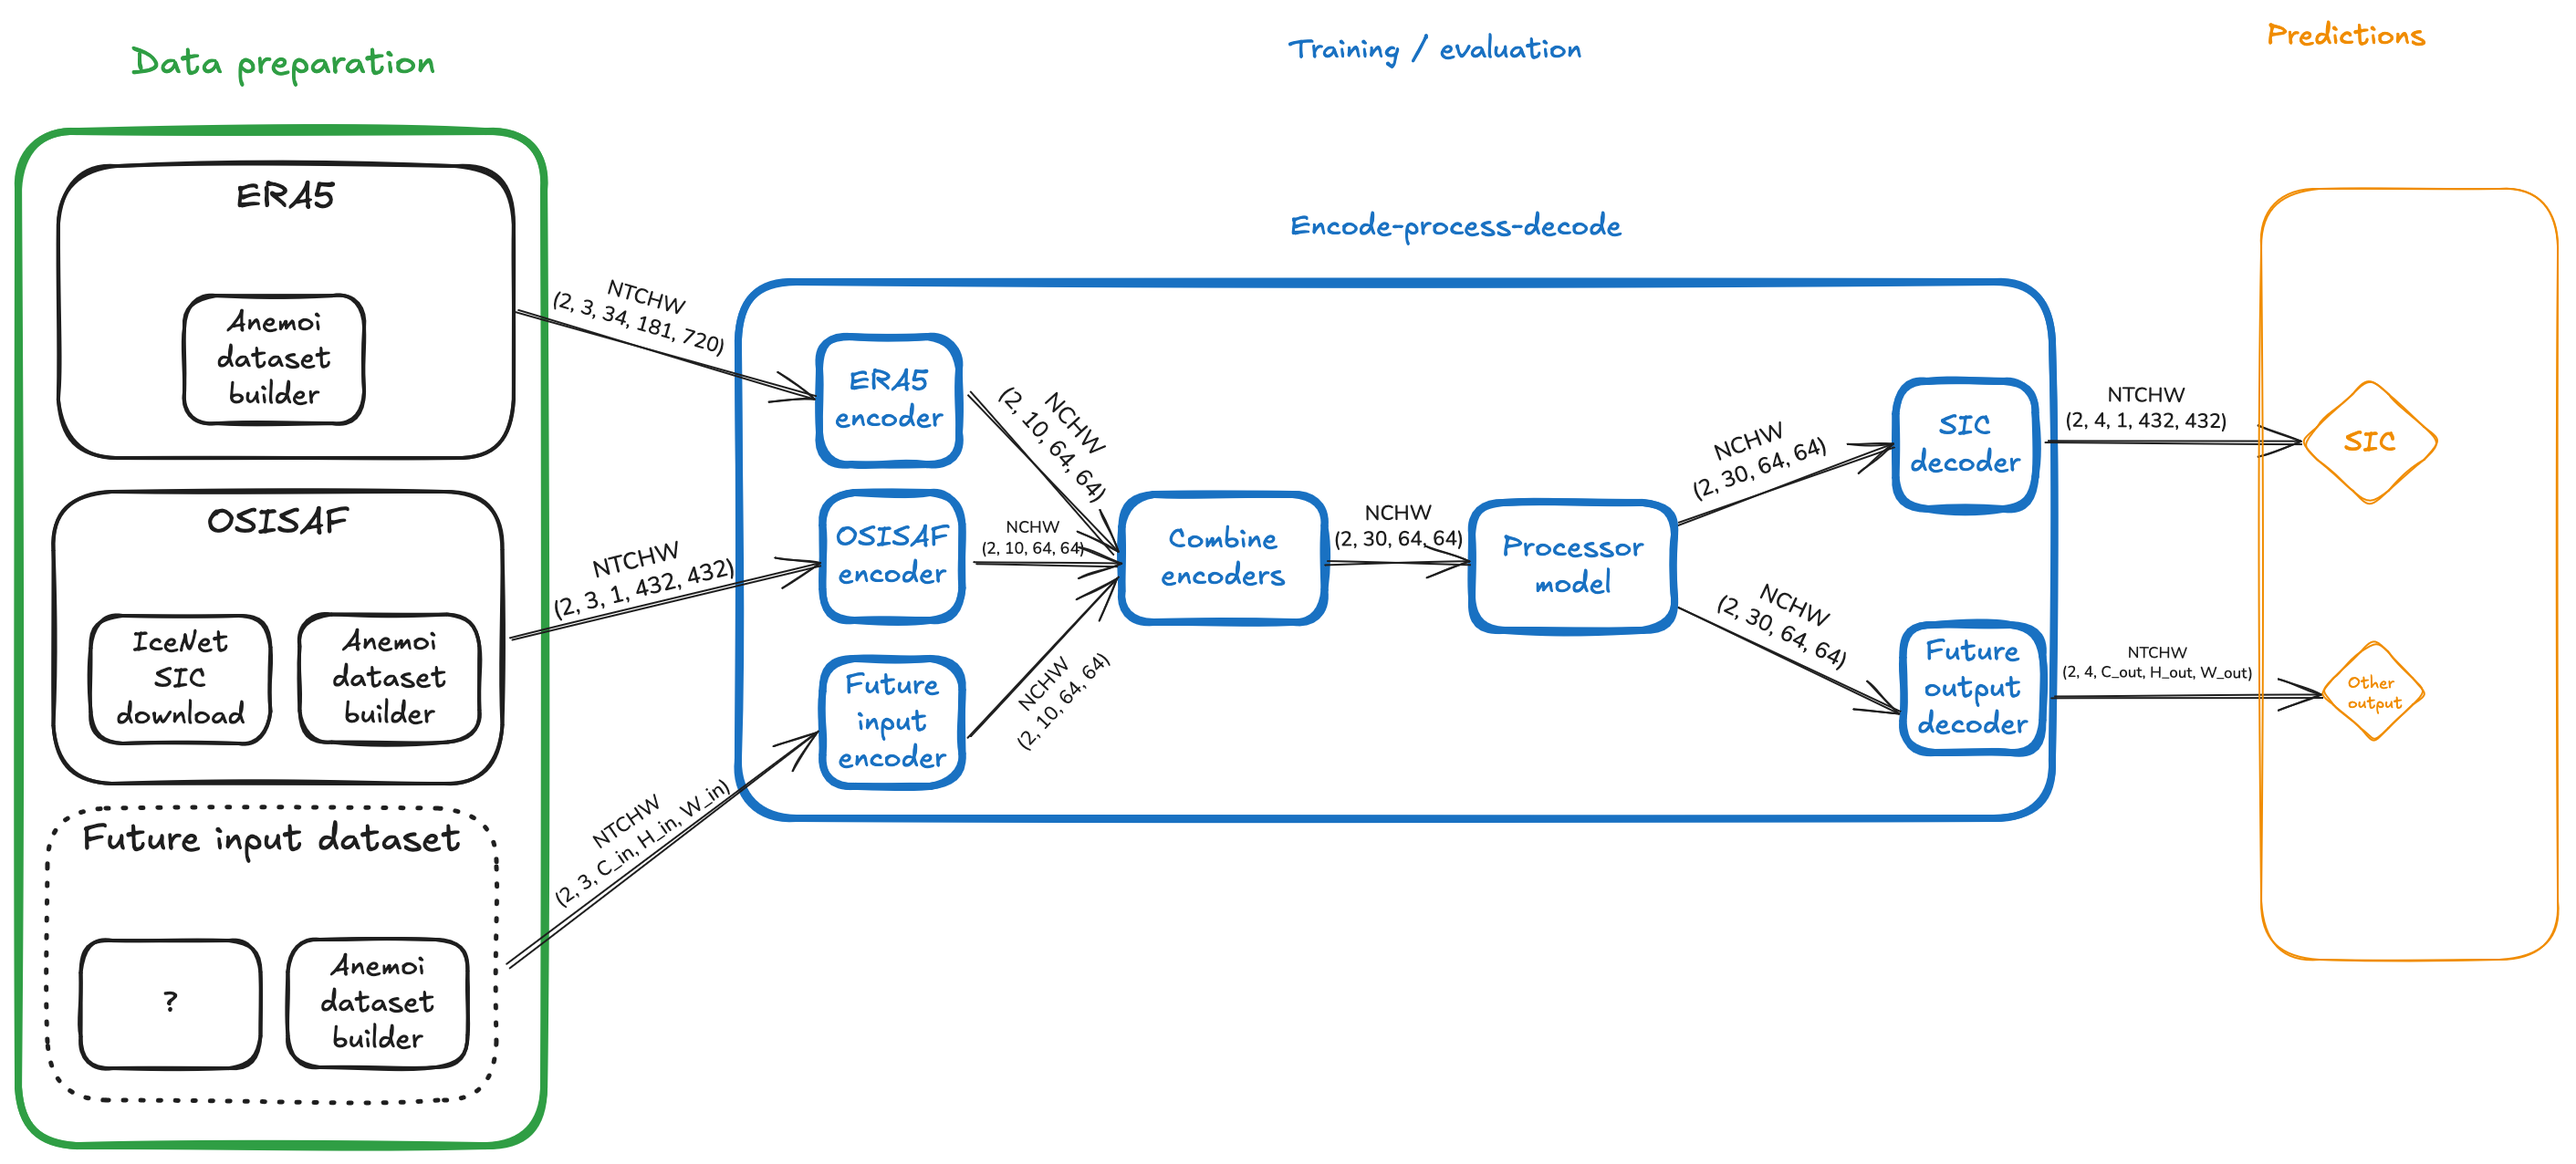
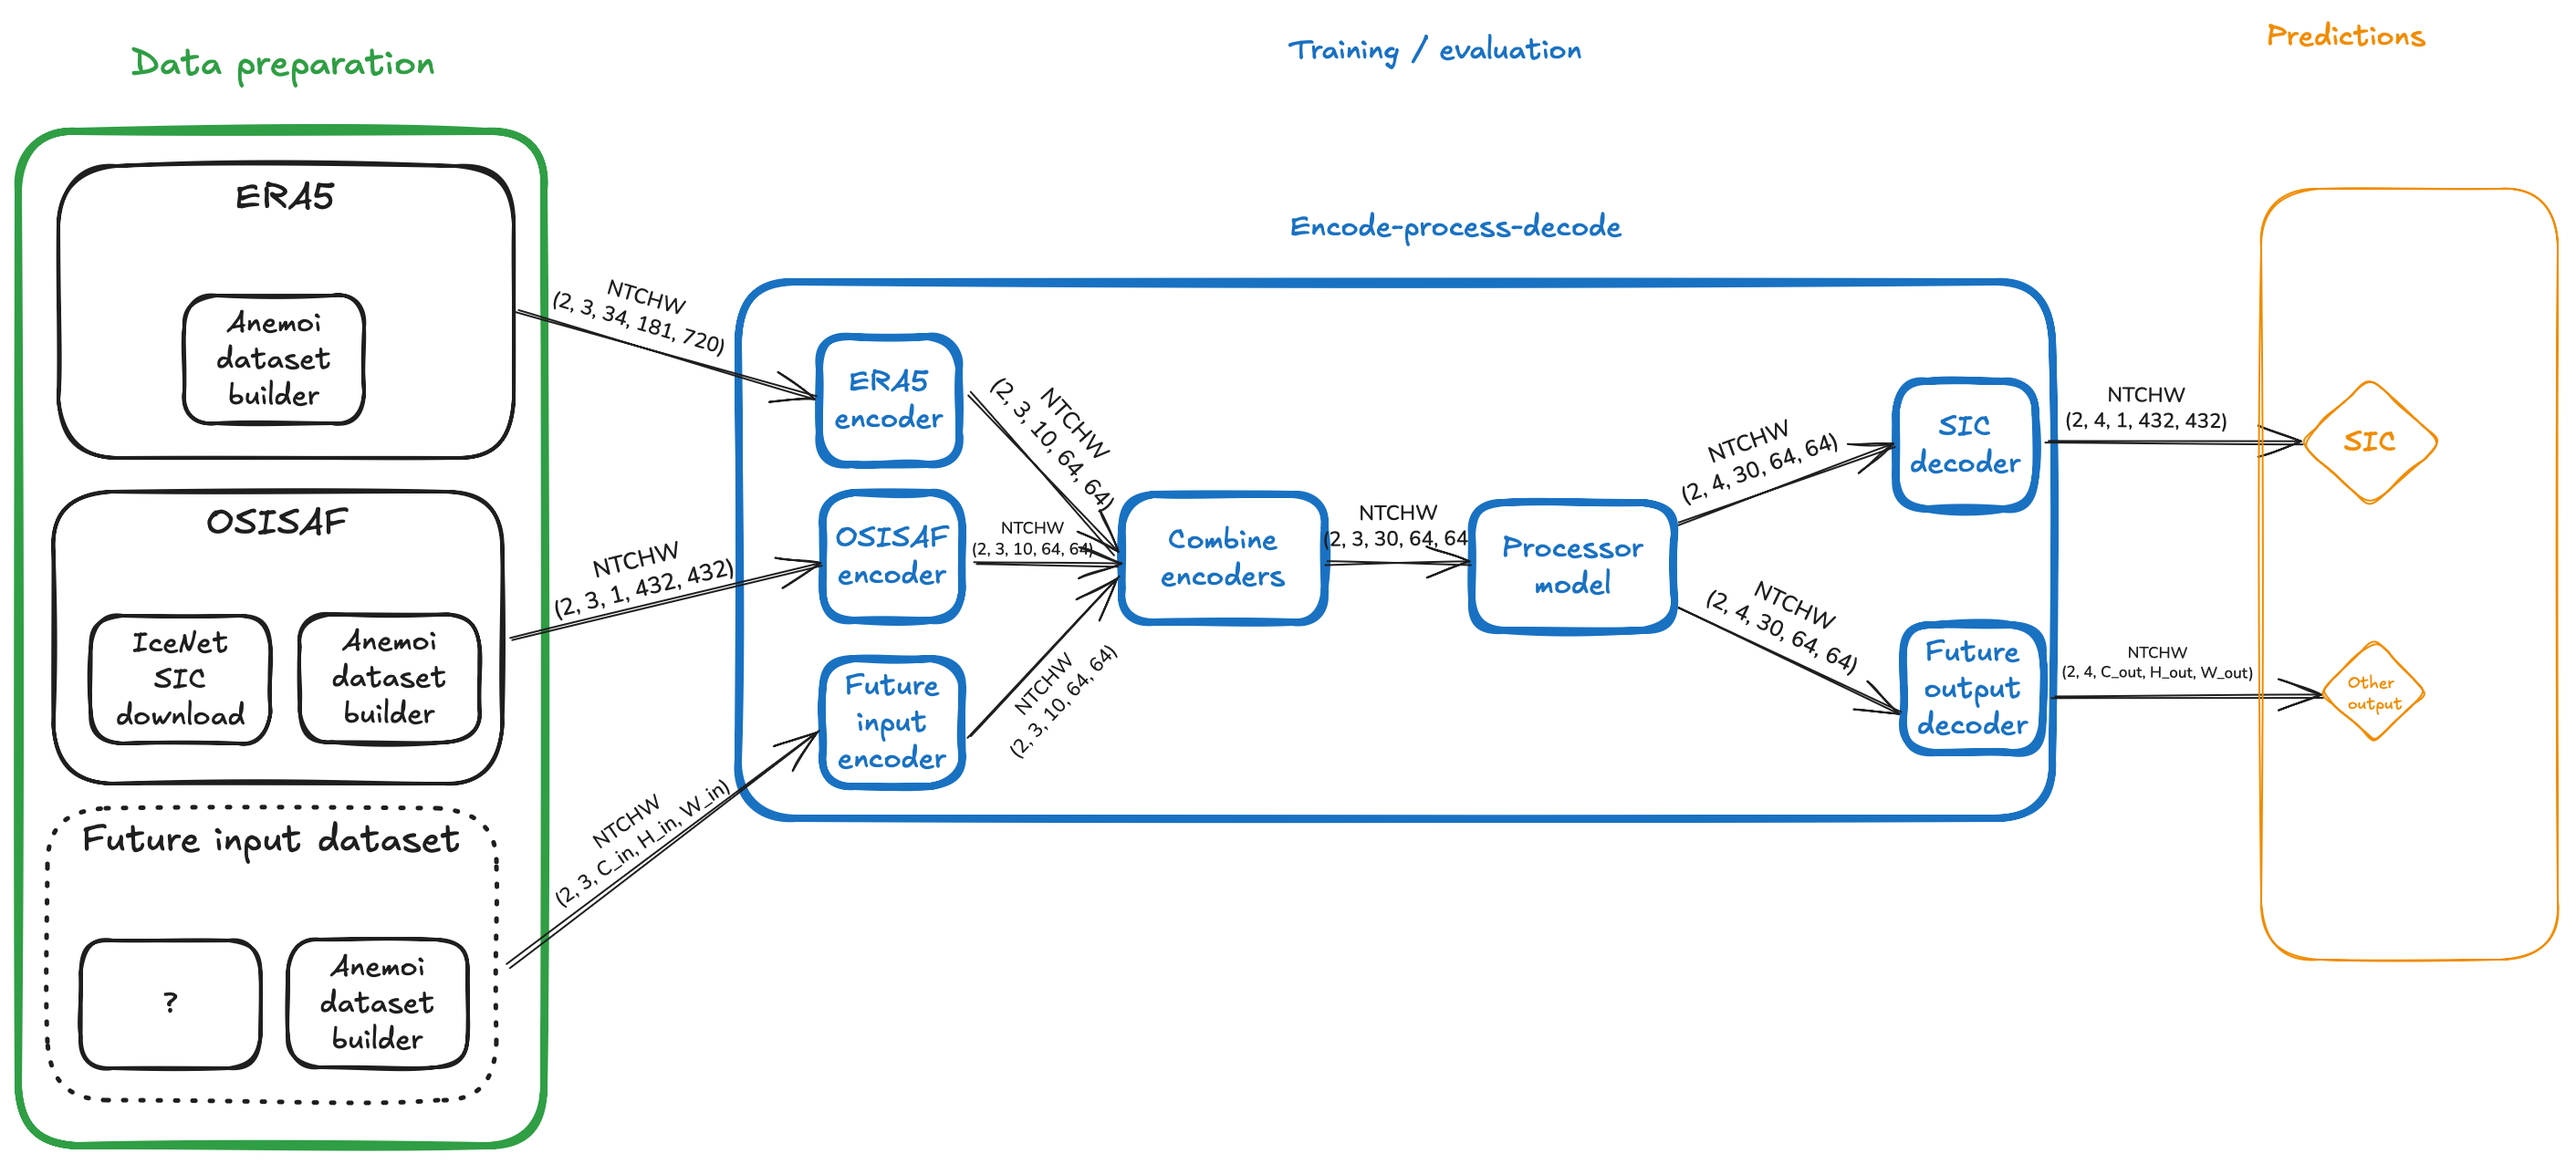
:bug: Upload revised image with the correct NTCHW dimensions

diff --git a/README.md b/README.md
@@ -121,12 +121,12 @@ Cons:
 A processor model is part of a larger encode-process-decode step.
 Start by defining a latent space as `(C_latent, H_latent, W_latent)` - in the example below, this has been set to `(10, 64, 64)`.
 The encode-process-decode model automatically creates one encoder for each input and one decoder for each output.
-The dataset-specific encoder takes the input data and converts it to shape `(N, C_latent, H_latent, W_latent)`, compressing the time and channels dimensions.
-The `k` encoded datasets can then be combined in latent space to give a single dataset of shape `(N, k * C_latent, H_latent, W_latent)`.
+The dataset-specific encoder takes the input data and converts it to shape `(N, T, C_latent, H_latent, W_latent)`, compressing the time and channels dimensions.
+The `k` encoded datasets can then be combined in latent space to give a single dataset of shape `(N, T, k * C_latent, H_latent, W_latent)`.
 
-This is then passed to the processor, which must accept input of shape `(N, k * C_latent, H_latent, W_latent)` and produce output of the same shape.
+This is then passed to the processor, which must accept input of shape `(N, T, k * C_latent, H_latent, W_latent)` and produce output of the same shape.
 
-This output is then passed to one or more output-specific decoders which take input of shape `(N, k * C_latent, H_latent, W_latent)` and produce output of shape `(N, T, C_out, H_out, W_out)`, regenerating the time dimension.
+This output is then passed to one or more output-specific decoders which take input of shape `(N, T, k * C_latent, H_latent, W_latent)` and produce output of shape `(N, T, C_out, H_out, W_out)`, regenerating the time dimension.
 
 ![image](docs/assets/pipeline-encode-process-decode.png)
 
